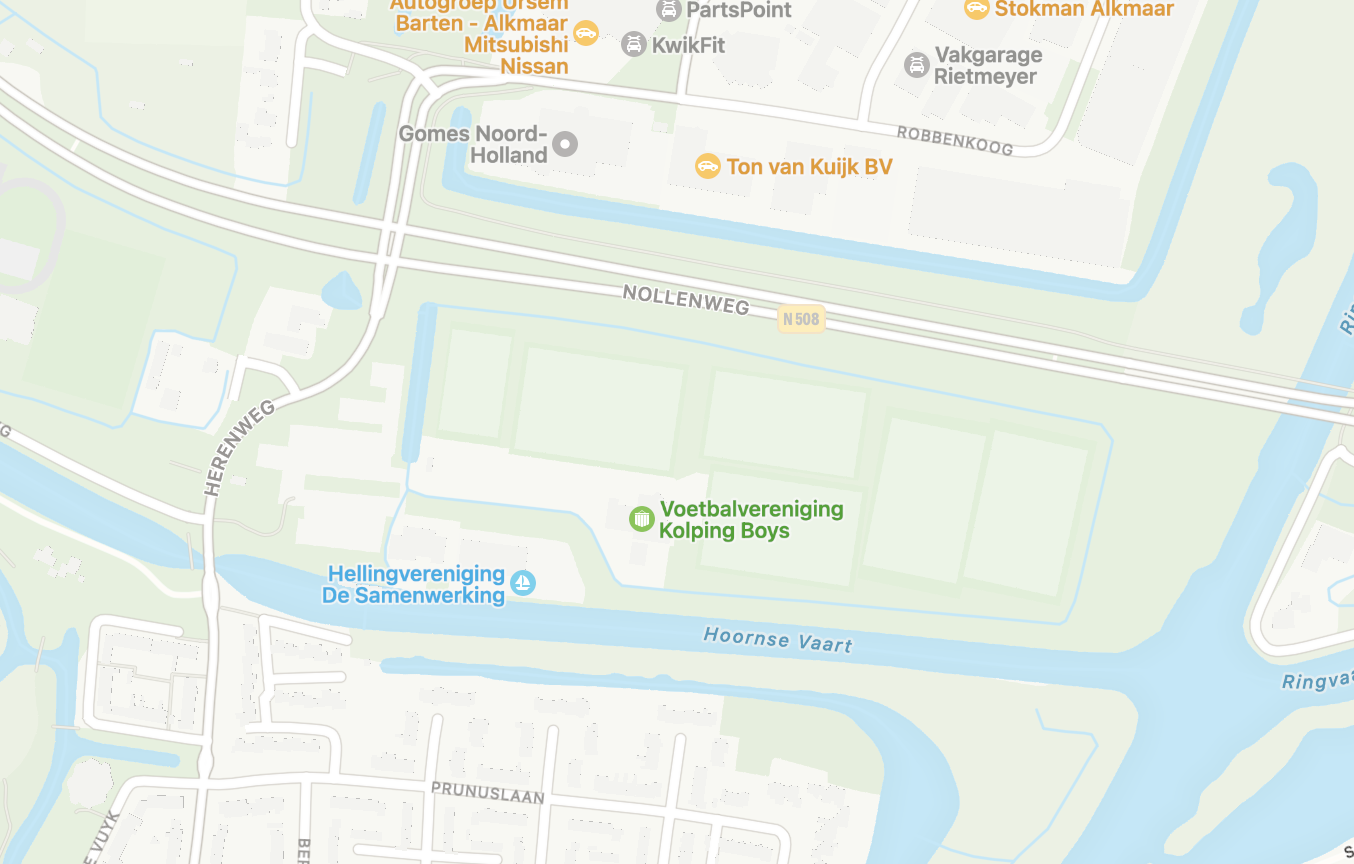
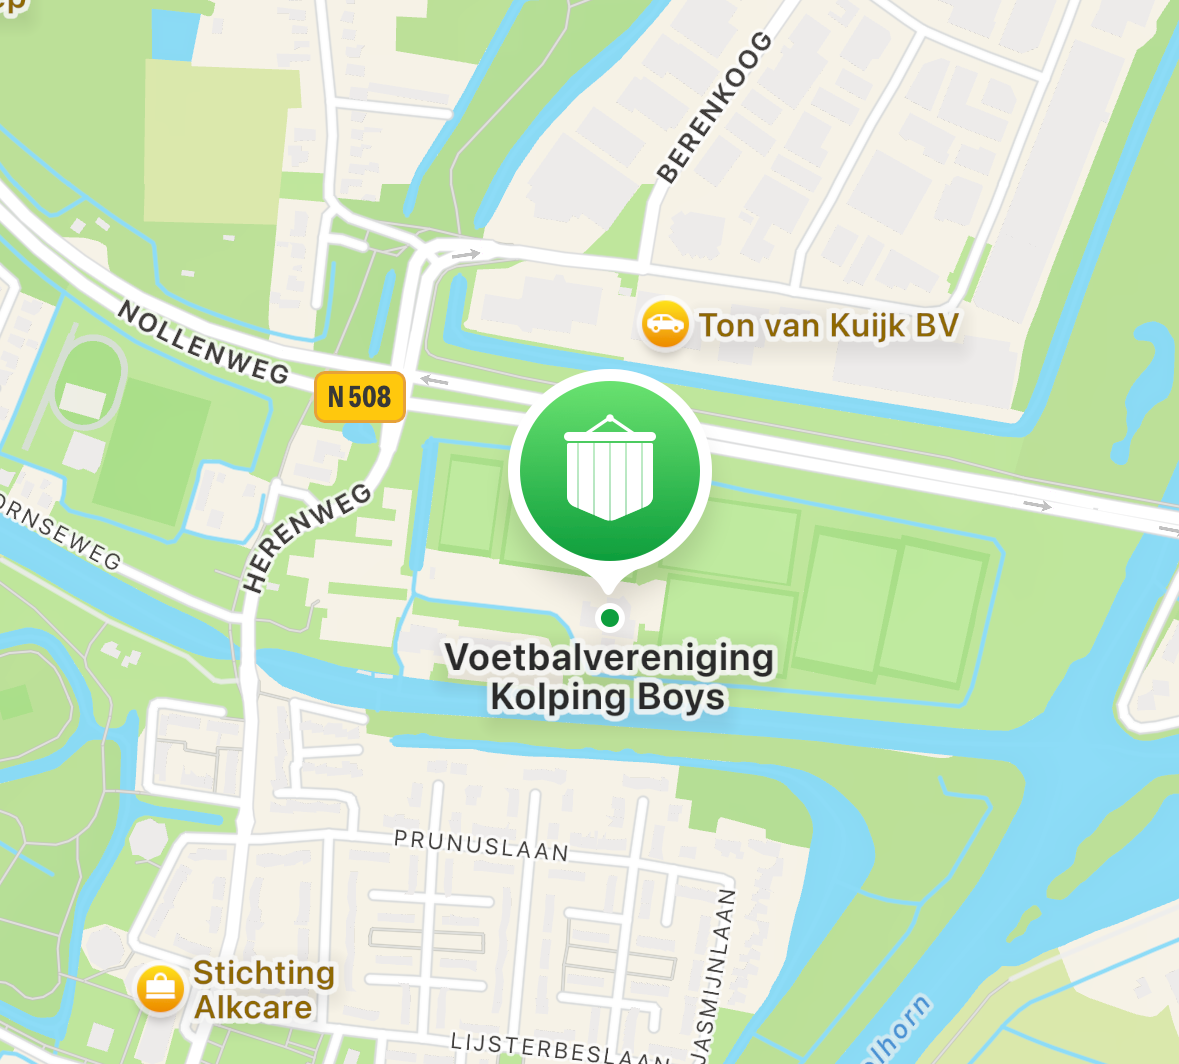
Update sponsorloop page

diff --git a/sponsorloop.md b/sponsorloop.md
@@ -6,18 +6,15 @@ description: "We zamelen geld in voor een rolstoelbus voor Emma!"
 wide: true
 ---
 
+<div class="col-lg-11 mx-auto">
 {% include doneer-inschrijf-buttons.html %}
-{: .col-lg10 }
+</div>
 
-{% include bubble_left.html image="/img/calendar.png" header="Datum"
+{% include bubble_left.html image="/img/calendar.png" header="Zaterdag 19 April"
 content="Zet zaterdag 19 April in je agenda, want dan wordt de sponsorloop gehouden." %}
 
-{% include bubble_right.html image="/img/kolpingboys_applemaps.png" image-link="https://maps.app.goo.gl/orsoURzLDYEHCVJS6"
-header="Locatie"
-content="De sponsorloop is op het terrein van de Kolpingboys, [Beverdam 3 in Alkmaar](https://maps.app.goo.gl/orsoURzLDYEHCVJS6)" %}
-
-{% include bubble_left.html image="/img/rolstoelbus.jpg" header="Rolstoelbus"
-content="Het doel van de sponsorloop is om geld in te zamelen voor een rolstoelbus" %}
+{% include bubble_right.html image="/img/rolstoelbus.jpg" header="Rolstoelbus"
+content="Het doel van de sponsorloop is om geld in te zamelen voor een rolstoelbus." %}
 
 
 {% capture doneer_content %}
@@ -25,8 +22,13 @@ Doneren kan via onderstaande link. Heel erg bedankt voor uw steun!
 
 <a class="btn-xl btn-danger col-5" href="{{ site.doneerurl }}">&#10084;&#65038; Doneer</a>
 {% endcapture %}
-{% include bubble_right.html image="/img/euro_heart.png" image-link=site.doneerurl header="Doneer"
+{% include bubble_left.html image="/img/euro_heart.png" image-link=site.doneerurl header="Doneer"
 content=doneer_content %}
+
+{% include bubble_right.html header="Locatie"
+image="/img/kolpingboys_applemaps.png" image-link="https://maps.app.goo.gl/orsoURzLDYEHCVJS6"
+content="De sponsorloop is op het terrein van de Kolping Boys, [Beverdam 3 in Alkmaar](https://maps.app.goo.gl/orsoURzLDYEHCVJS6)" %}
+
 
 {% capture loop_mee_content %}
 Leuk dat je mee wilt lopen! Opgeven kan via [dit formulier]({{ site.inschrijfurl }})
